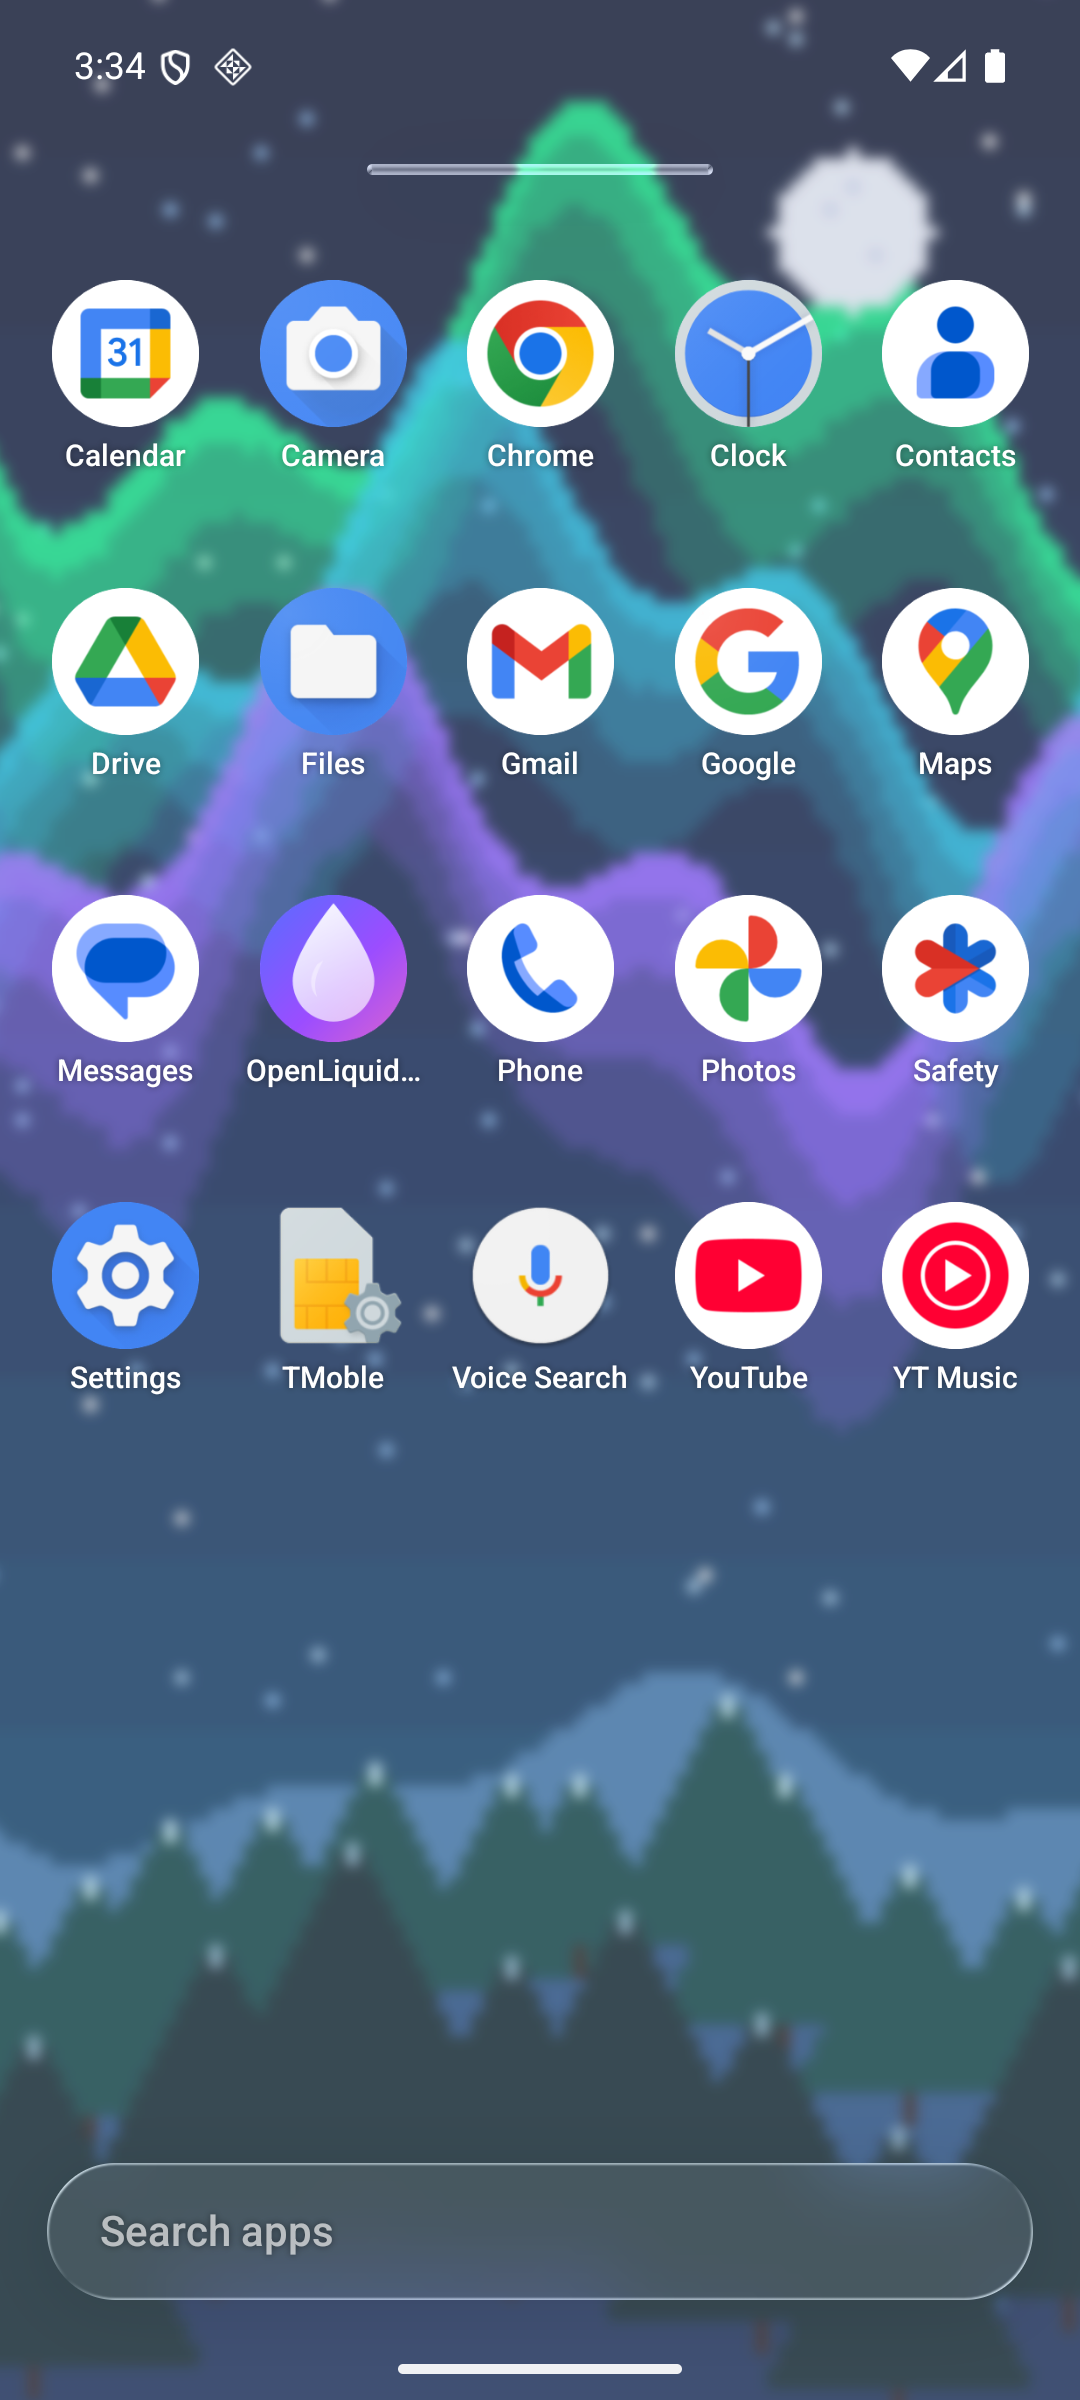
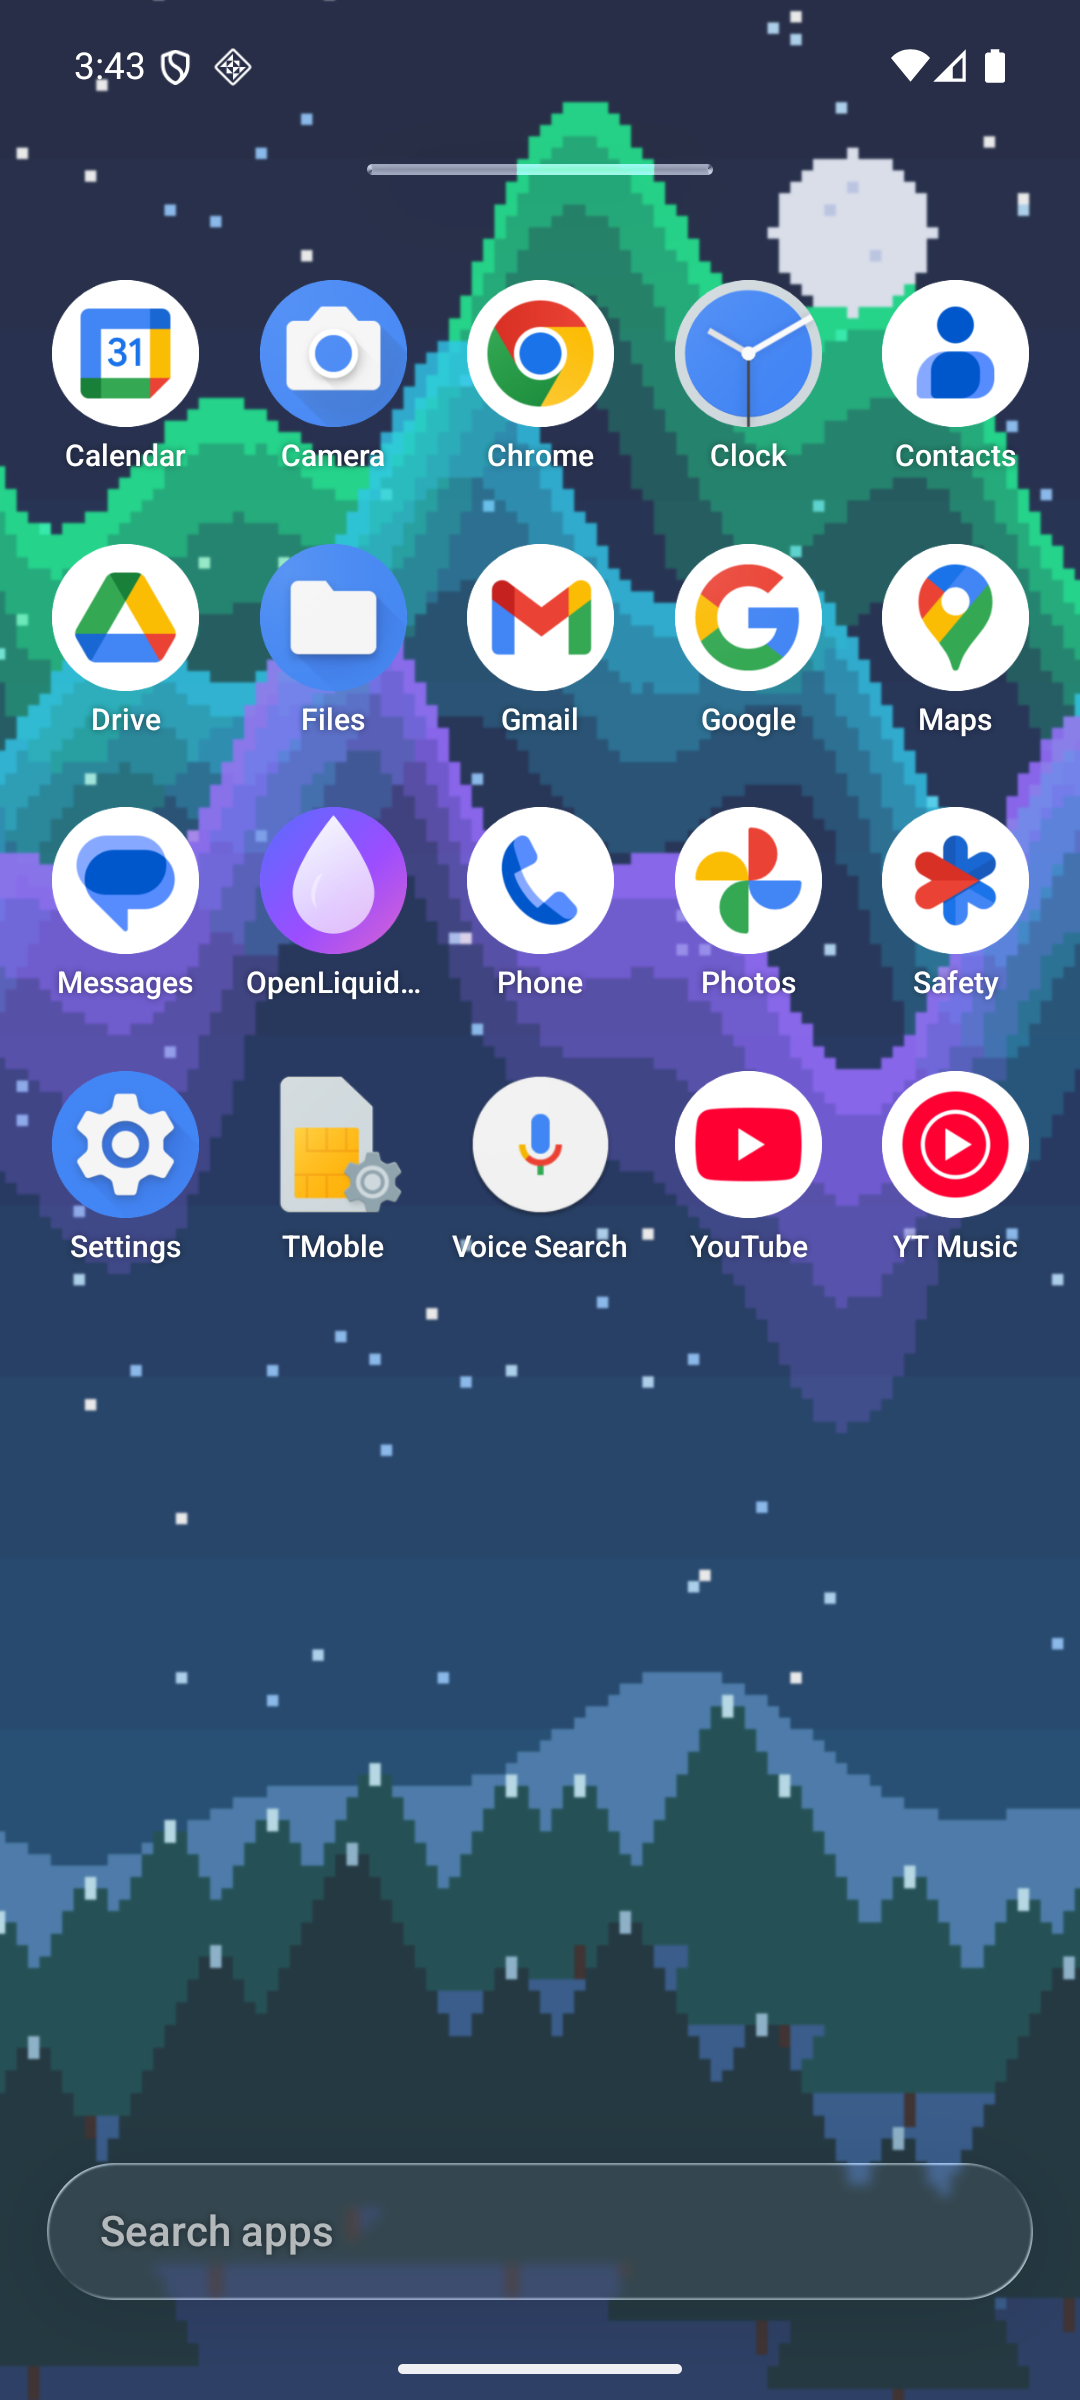
Make the user's tuned glass look the new default
columns/rows/dock unchanged, but rows 6->7; wallpaper also set as the
system wallpaper by default; and the whole liquid glass tuning
(blur, refraction amount, surface alpha, roundness, folder roundness,
droplet, quality Maximum, resolution 150%) plus intro (Cascade, Slow)
now matches the look that was dialed in by hand on the emulator and
found better than the old flat defaults. README screenshots retaken
with these defaults on a fresh install (no saved prefs).

Claude-Session: https://claude.ai/code/session_01KanGnvgaQn2Pg84pfu3TUM

diff --git a/app/src/main/java/com/linuxkernel44/openliquidlauncher/data/Settings.kt b/app/src/main/java/com/linuxkernel44/openliquidlauncher/data/Settings.kt
@@ -12,7 +12,7 @@ enum class WallpaperMode { System, Custom }
 
 data class LauncherSettings(
     val columns: Int = 5,
-    val rows: Int = 6,
+    val rows: Int = 7,
     val dockSize: Int = 5,
     val iconScale: Float = 1f,
     val showLabels: Boolean = true,
@@ -20,28 +20,28 @@ data class LauncherSettings(
     val showBadges: Boolean = true,
     val autoAddNewApps: Boolean = true,
     val wallpaperMode: WallpaperMode = WallpaperMode.Custom,
-    val setSystemWallpaperToo: Boolean = false,
+    val setSystemWallpaperToo: Boolean = true,
     // Liquid glass tuning
-    val glassBlur: Float = 4f,
+    val glassBlur: Float = 0.46288183f,
     val glassRefractionHeight: Float = 14f,
-    val glassRefractionAmount: Float = 24f,
-    val glassSurfaceAlpha: Float = 0.18f,
+    val glassRefractionAmount: Float = 40.217976f,
+    val glassSurfaceAlpha: Float = 0.10425015f,
     val glassDispersion: Boolean = false,
     /** 0..1 corner roundness of every glass element; 0.5 = the original look, 0 = nearly square, 1 = as round as possible. */
-    val glassRoundness: Float = 0.5f,
+    val glassRoundness: Float = 0.6990384f,
     /** 0..1 roundness of folders only (icon and opened panel); 0.5 = original. Independent from [glassRoundness]. */
-    val folderRoundness: Float = 0.5f,
+    val folderRoundness: Float = 0.40042168f,
     /** 0 = the system's icon shape (default); 0.01..1 = our own mask from a slightly rounded square to a circle. */
     val appIconRoundness: Float = 0f,
     /** 0..1: how "water droplet" small glass elements (folders, dock, buttons, handle, menus) look; 0 = original look. */
-    val glassDroplet: Float = 0f,
+    val glassDroplet: Float = 0.79980314f,
     /** Launch animation style (see ui/Intro.kt: 0 None, 1 Fade, 2 Zoom, 3 Cascade, 4 Slide) and speed (0 fast, 1 normal, 2 slow). */
-    val introStyle: Int = 2,
-    val introSpeed: Int = 1,
+    val introStyle: Int = 3,
+    val introSpeed: Int = 2,
     /** 0 Minimum · 1 Low · 2 Current (default) · 3 High · 4 Maximum: how rich the glass is. */
-    val glassQuality: Int = 2,
+    val glassQuality: Int = 4,
     /** Index into [GLASS_RESOLUTIONS]: render scale of the glass (default 100 %). */
-    val glassResolution: Int = 3,
+    val glassResolution: Int = 5,
     /** 0 = automatic (system decides), -1 = maximum, otherwise a fixed rate in Hz. */
     val refreshRate: Float = 0f,
     // Gestures
